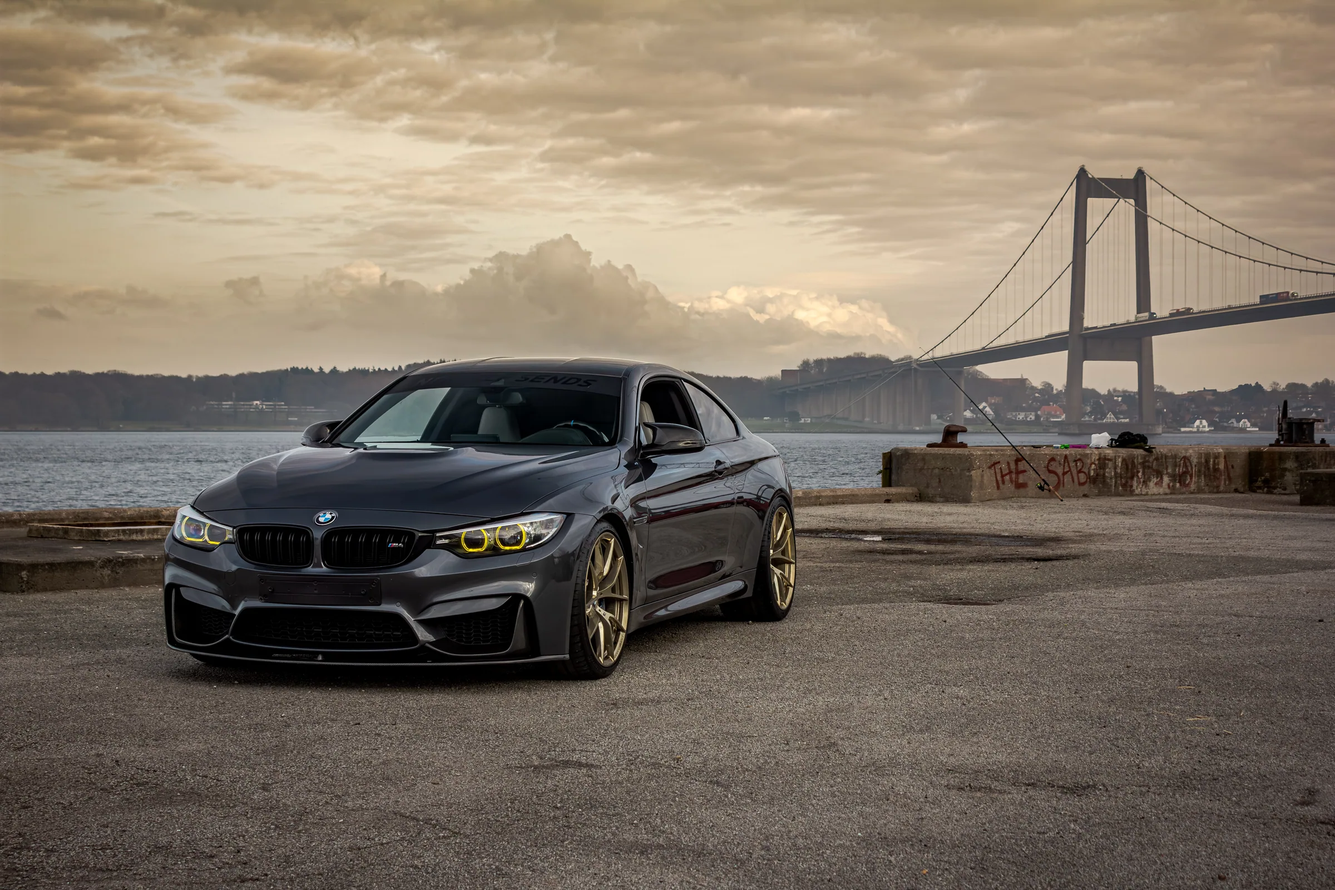
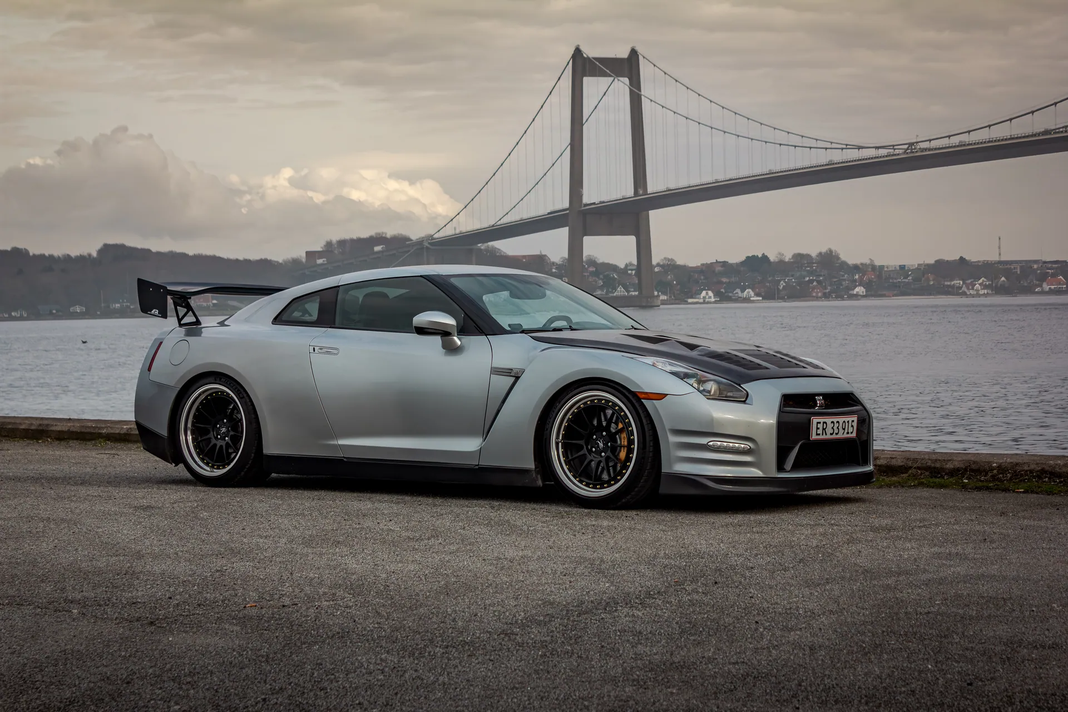
Forside: nyt hero-billede (Marks GT-R ved broen) — Lukas' M4 er solgt
Lukas' Mineral Grey M4 på guldfælge var forsidens hero, men bilen er solgt.
Skiftet hero.webp til Marks Nissan GT-R foran Lillebæltsbroen (IMG_6288-Enhanced-NR),
opdateret hero-alt-tekst på da/en/de, og fjernet "cover car"-linjen i Lukas' bil-tekst.

diff --git a/app/lib/i18n.js b/app/lib/i18n.js
@@ -70,7 +70,7 @@ const M = {
       overline: "Est. 2022 — Esbjerg × Fredericia",
       sub: "En flok venner fra vestkysten. Ni biler, én garage — forenet af benzin, saltluft og respekt for hinandens projekter.",
       cars: "Biler i garagen", founded: "Grundlagt", photos: "Billeder", scroll: "Scroll",
-      imgAlt: "Mineralgrå BMW M4 på guldfælge foran Lillebæltsbroen ved solnedgang",
+      imgAlt: "Sølvgrå Nissan GT-R foran Lillebæltsbroen",
       scrollAria: "Scroll ned til crewet",
     },
     about: {
@@ -302,7 +302,7 @@ const M = {
       overline: "Est. 2022 — Esbjerg × Fredericia",
       sub: "A group of friends from the west coast. Nine cars, one garage — united by fuel, salt air and respect for each other’s builds.",
       cars: "Cars in the garage", founded: "Founded", photos: "Photos", scroll: "Scroll",
-      imgAlt: "Mineral grey BMW M4 on gold wheels in front of the Little Belt Bridge at sunset",
+      imgAlt: "Silver Nissan GT-R in front of the Little Belt Bridge",
       scrollAria: "Scroll to the crew",
     },
     about: {
@@ -533,7 +533,7 @@ const M = {
       overline: "Gegr. 2022 — Esbjerg × Fredericia",
       sub: "Eine Gruppe Freunde von der Westküste. Neun Autos, eine Garage — vereint durch Benzin, Salzluft und Respekt für die Projekte der anderen.",
       cars: "Autos in der Garage", founded: "Gegründet", photos: "Fotos", scroll: "Scrollen",
-      imgAlt: "Mineralgrauer BMW M4 auf goldenen Felgen vor der Kleinen-Belt-Brücke bei Sonnenuntergang",
+      imgAlt: "Silbergrauer Nissan GT-R vor der Kleinen-Belt-Brücke",
       scrollAria: "Zur Crew scrollen",
     },
     about: {

diff --git a/app/data/cars.js b/app/data/cars.js
@@ -50,7 +50,7 @@ const CARS = [
     spec: "Mineral Grey · Gold",
     tags: ["Gold wheels", "Lowered", "Angel Eyes"],
     blurb:
-      "Mineral grey on gold in front of the Little Belt Bridge at golden hour. The crew's cover car, no debate.",
+      "Mineral grey on gold in front of the Little Belt Bridge at golden hour.",
   },
   {
     slug: "hausmann-lincoln",
